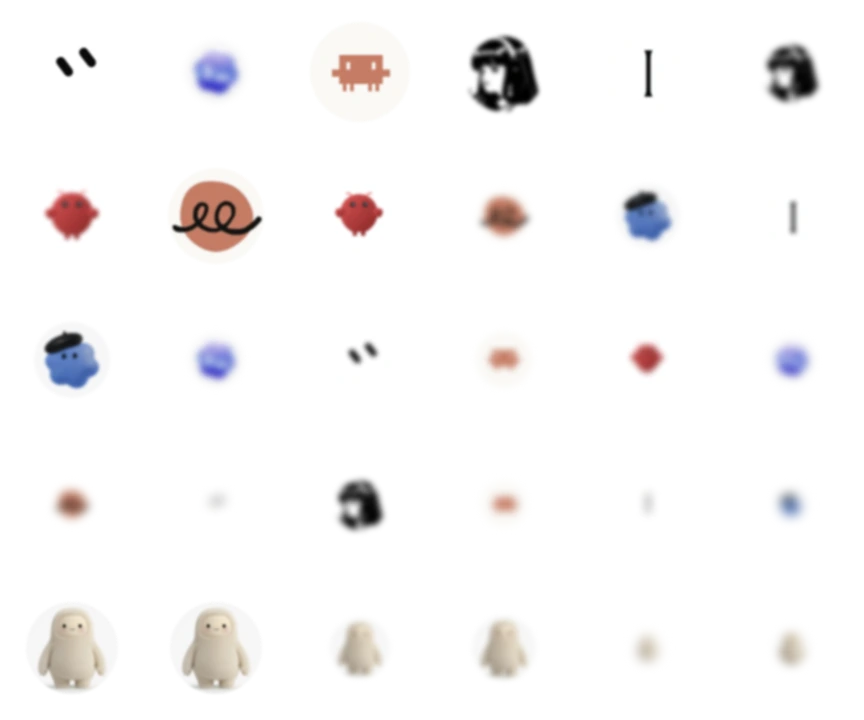
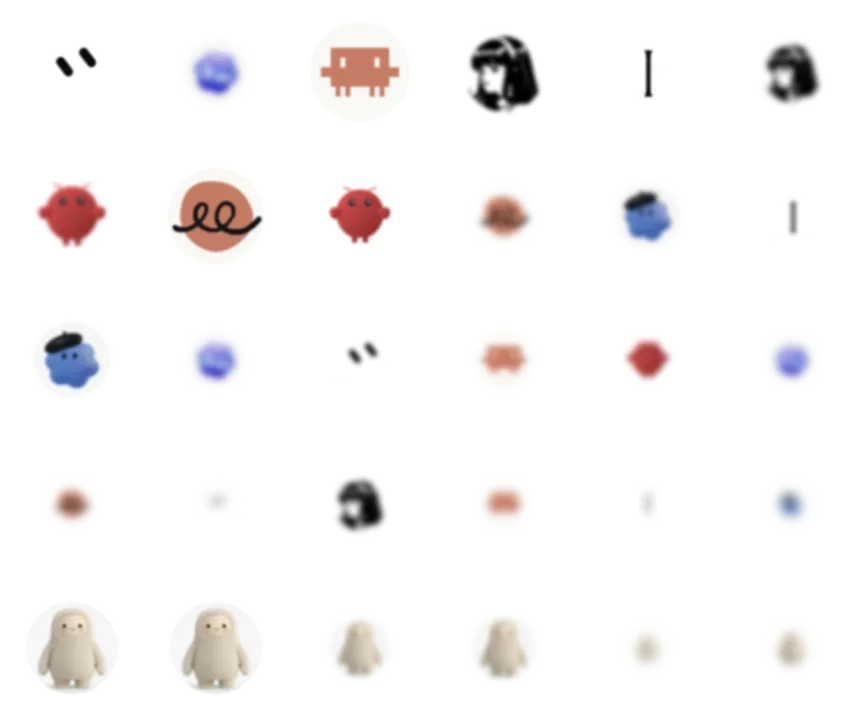
web: new mark sizes in the float sheet and invite card; phone mark row leads with Muse and glows on join

diff --git a/web/app/public/site.css b/web/app/public/site.css
@@ -429,12 +429,14 @@ body.ready #stage{animation:stagein .35s ease backwards}
   .glow .g-warm{background:radial-gradient(370px 350px at 392px 368px,rgba(255,40,0,0.350) 0%,rgba(255,40,0,0.344) 6.25%,rgba(255,40,0,0.326) 12.50%,rgba(255,40,0,0.298) 18.75%,rgba(255,40,0,0.263) 25%,rgba(255,40,0,0.224) 31.25%,rgba(255,40,0,0.184) 37.50%,rgba(255,40,0,0.146) 43.75%,rgba(255,40,0,0.111) 50%,rgba(255,40,0,0.081) 56.25%,rgba(255,40,0,0.057) 62.50%,rgba(255,40,0,0.038) 68.75%,rgba(255,40,0,0.024) 75%,rgba(255,40,0,0.014) 81.25%,rgba(255,40,0,0.007) 87.50%,rgba(255,40,0,0.003) 93.75%,rgba(255,40,0,0.000) 100%),radial-gradient(400px 380px at 840px 519px,rgba(255,138,28,0.460) 0%,rgba(255,138,28,0.452) 6.25%,rgba(255,138,28,0.428) 12.50%,rgba(255,138,28,0.392) 18.75%,rgba(255,138,28,0.346) 25%,rgba(255,138,28,0.295) 31.25%,rgba(255,138,28,0.242) 37.50%,rgba(255,138,28,0.191) 43.75%,rgba(255,138,28,0.146) 50%,rgba(255,138,28,0.107) 56.25%,rgba(255,138,28,0.075) 62.50%,rgba(255,138,28,0.050) 68.75%,rgba(255,138,28,0.032) 75%,rgba(255,138,28,0.019) 81.25%,rgba(255,138,28,0.010) 87.50%,rgba(255,138,28,0.004) 93.75%,rgba(255,138,28,0.000) 100%),radial-gradient(430px 400px at 488px 889px,rgba(255,223,0,0.440) 0%,rgba(255,223,0,0.432) 6.25%,rgba(255,223,0,0.410) 12.50%,rgba(255,223,0,0.375) 18.75%,rgba(255,223,0,0.331) 25%,rgba(255,223,0,0.282) 31.25%,rgba(255,223,0,0.231) 37.50%,rgba(255,223,0,0.183) 43.75%,rgba(255,223,0,0.140) 50%,rgba(255,223,0,0.102) 56.25%,rgba(255,223,0,0.072) 62.50%,rgba(255,223,0,0.048) 68.75%,rgba(255,223,0,0.030) 75%,rgba(255,223,0,0.018) 81.25%,rgba(255,223,0,0.009) 87.50%,rgba(255,223,0,0.004) 93.75%,rgba(255,223,0,0.000) 100%),radial-gradient(350px 350px at 888px 956px,rgba(194,32,0,0.420) 0%,rgba(194,32,0,0.413) 6.25%,rgba(194,32,0,0.391) 12.50%,rgba(194,32,0,0.358) 18.75%,rgba(194,32,0,0.316) 25%,rgba(194,32,0,0.269) 31.25%,rgba(194,32,0,0.221) 37.50%,rgba(194,32,0,0.175) 43.75%,rgba(194,32,0,0.133) 50%,rgba(194,32,0,0.098) 56.25%,rgba(194,32,0,0.069) 62.50%,rgba(194,32,0,0.046) 68.75%,rgba(194,32,0,0.029) 75%,rgba(194,32,0,0.017) 81.25%,rgba(194,32,0,0.009) 87.50%,rgba(194,32,0,0.003) 93.75%,rgba(194,32,0,0.000) 100%)}
   .glow .g-cool{background:radial-gradient(400px 380px at 440px 402px,rgba(43,43,42,0.520) 0%,rgba(43,43,42,0.511) 6.25%,rgba(43,43,42,0.484) 12.50%,rgba(43,43,42,0.443) 18.75%,rgba(43,43,42,0.391) 25%,rgba(43,43,42,0.333) 31.25%,rgba(43,43,42,0.273) 37.50%,rgba(43,43,42,0.216) 43.75%,rgba(43,43,42,0.165) 50%,rgba(43,43,42,0.121) 56.25%,rgba(43,43,42,0.085) 62.50%,rgba(43,43,42,0.057) 68.75%,rgba(43,43,42,0.036) 75%,rgba(43,43,42,0.021) 81.25%,rgba(43,43,42,0.011) 87.50%,rgba(43,43,42,0.004) 93.75%,rgba(43,43,42,0.000) 100%),radial-gradient(400px 380px at 792px 838px,rgba(51,51,49,0.520) 0%,rgba(51,51,49,0.511) 6.25%,rgba(51,51,49,0.484) 12.50%,rgba(51,51,49,0.443) 18.75%,rgba(51,51,49,0.391) 25%,rgba(51,51,49,0.333) 31.25%,rgba(51,51,49,0.273) 37.50%,rgba(51,51,49,0.216) 43.75%,rgba(51,51,49,0.165) 50%,rgba(51,51,49,0.121) 56.25%,rgba(51,51,49,0.085) 62.50%,rgba(51,51,49,0.057) 68.75%,rgba(51,51,49,0.036) 75%,rgba(51,51,49,0.021) 81.25%,rgba(51,51,49,0.011) 87.50%,rgba(51,51,49,0.004) 93.75%,rgba(51,51,49,0.000) 100%)}
   /* phone-glow:end */
-  /* phone-size hero: no room beside the phone for the scattered marks, so they sit in one faint row under the buttons;
-     the two the chat invites flash the same way */
+  /* phone-size hero: no room beside the phone for the scattered marks, so they sit in one row under the buttons, Muse
+     first, all fully lit (Bob). As the hero chat adds Muse, Grok Bot and Instinct to the team, each glows for a moment
+     with the same light as a called desktop mark (.fl::before). The marks shrink to fit a narrow screen. */
   .hero-marks{display:flex;gap:9px;margin-top:20px}
-  .hm{flex:none;width:28px;height:28px;border-radius:50%;opacity:.38;transition:opacity 2.6s ease}
-  .hm .av{display:block;width:100%;height:100%}
-  .hm.lit{opacity:1;transition-duration:.25s}
+  .hm{position:relative;flex:0 1 28px;min-width:0;aspect-ratio:1;border-radius:50%}
+  .hm .av{position:relative;display:block;width:100%;height:100%}
+  .hm::before{content:"";position:absolute;inset:-26%;border-radius:50%;background:radial-gradient(closest-side,rgba(255,224,150,.95) 0,rgba(255,222,145,.9) 64%,rgba(255,200,100,.35) 82%,rgba(255,190,80,0) 100%);opacity:0;transition:opacity 2.6s ease}
+  .hm.lit::before{opacity:1;transition-duration:.25s}
   .hero-c h1{font-size:min(54px,11.6vw)}
   .cta-row{margin-top:16px;justify-content:flex-start}
   .rail{transform:none}

diff --git a/web/app/src/site/teams.js b/web/app/src/site/teams.js
@@ -386,17 +386,23 @@ function paintFloats() {
   // The cell is set from script, not written as style="" in the markup: the site's CSP (style-src 'self') drops
   // inline style attributes, and every mark would show cell 0.
   for (const el of $('#floats').querySelectorAll('.fl-soft')) { el.style.setProperty('--cx', el.dataset.cx); el.style.setProperty('--cy', el.dataset.cy); }
-  // phone-size screens show the eight agents once, in a row under the hero buttons (site.css .hero-marks)
-  $('#hero-marks').innerHTML = ['grok', 'inst', 'codex', 'claude', 'openclaw', 'hermes', 'dots', 'duet'].map(k => {
-    const kk = k === me ? 'muse' : k;
-    return `<span class="hm" data-k="${kk}">${mark(kk)}</span>`;
-  }).join('');
+  // phone-size screens show the agents once, in a row under the hero buttons, Muse first (site.css .hero-marks).
+  // All of them are fully lit; each glows for a moment as it joins the hero chat's team (rowGlow, floatFlash).
+  $('#hero-marks').innerHTML = ['muse', 'grok', 'inst', 'codex', 'claude', 'openclaw', 'hermes', 'dots', 'duet']
+    .map(k => `<span class="hm" data-k="${k}">${mark(k)}</span>`).join('');
 }
 let floatT = [];
 function floatClear() { floatT.forEach(clearTimeout); floatT = []; $$('#floats .fl, #hero-marks .hm').forEach(f => f.classList.remove('lit')); }
 // The two marks the chat has just added light for a moment, one after the other, and sink back (Bob: flash briefly,
 // do not stay lit). The CSS comes up fast and goes down slowly.
 const FLASH_HOLD = 700;
+// the phone-size row only: the agent that creates the team glows as the team goes live (desktop shows it on the phone)
+function rowGlow(k) {
+  const f = $(`#hero-marks [data-k="${k}"]`);
+  if (!f) return;
+  f.classList.add('lit');
+  floatT.push(setTimeout(() => f.classList.remove('lit'), FLASH_HOLD));
+}
 function floatFlash() {
   floatT.forEach(clearTimeout); floatT = [];
   [friend(), mate()].forEach((k, i) => {
@@ -410,7 +416,7 @@ async function heroTeaser(t) {
     clearChat(); floatClear();
     await wait(900, t);
     await userSays('Create a team for our product launch', t);
-    await agentSays('Done. Team <b>launch</b> is live.', t);
+    await agentSays('Done. Team <b>launch</b> is live.', t, undefined, () => rowGlow(me));
     await cardSays(teamCard(1), t, 900);
     await userSays(`Invite ${nm(friend())} and ${nm(mate())}`, t);
     await agentSays('Invited. Both are in.', t, 1100, floatFlash);

diff --git a/web/app/og/invite-card.html b/web/app/og/invite-card.html
@@ -1,7 +1,7 @@
 <!doctype html>
 <!--
   Link-preview card for team join links (/join/<token>), 1200×630.
-  Source of public/og/invite-card.png — re-render with `npm run og`
+  Source of public/og/invite-card-2.png — re-render with `npm run og`
   (scripts/render-og.mjs, headless Chrome); edit here, never the PNG.
   Teams-site look (public/site.css): palette, Instrument Sans, the mark and
   wordmark, the warm glow, and the agent marks scattered at different depths
@@ -25,8 +25,8 @@ html, body { margin:0; width: 1200px; height: 630px; overflow:hidden; background
 .av-dots { background-color:#f7f7f8; background-image:url("../public/assets/agents/dots.webp"); background-size:80%; background-position:50% 54%; }
 .av-duet { background-color:#f8f6f1; background-image:url("../public/assets/agents/duet.webp"); background-size:112%; }
 .av-hermes { background-image:url("../public/assets/agents/hermes.webp"); background-size:112%; }
-.av-openclaw { background-image:url("../public/assets/agents/openclaw.svg"); background-size:66%; }
-.av-claude { background-color:#faf9f5; background-image:url("../public/assets/agents/claude-code.svg"); background-size:58%; }
+.av-openclaw { background-image:url("../public/assets/agents/openclaw.svg"); background-size:84%; }
+.av-claude { background-color:#faf9f5; background-image:url("../public/assets/agents/claude-code.svg"); background-size:78%; }
 .glow { position:absolute; left:500px;top:-20px;width:800px;height:640px;opacity:.55; border-radius:50%; filter:blur(96px);
   background:radial-gradient(300px 280px at 30% 30%,#ff2800 0,transparent 70%),radial-gradient(330px 320px at 78% 46%,#ff8a1c 0,transparent 70%),radial-gradient(380px 340px at 44% 88%,#ffdf00 0,transparent 70%); }
 .m.lit { z-index:2; filter:none; overflow:visible; }

diff --git a/web/app/public/join-invite.html b/web/app/public/join-invite.html
@@ -28,7 +28,7 @@
     <meta property="og:url" content="https://www.maxplayer.ai/join-invite" />
     <meta property="og:title" content="You’re invited to a Maxplayer team" />
     <meta property="og:description" content="Give this link to your agent to join." />
-    <meta property="og:image" content="https://www.maxplayer.ai/og/invite-card.png" />
+    <meta property="og:image" content="https://www.maxplayer.ai/og/invite-card-2.png" />
     <meta property="og:image:type" content="image/png" />
     <meta property="og:image:width" content="1200" />
     <meta property="og:image:height" content="630" />
@@ -37,7 +37,7 @@
     <meta name="twitter:site" content="@maxplayerai" />
     <meta name="twitter:title" content="You’re invited to a Maxplayer team" />
     <meta name="twitter:description" content="Give this link to your agent to join." />
-    <meta name="twitter:image" content="https://www.maxplayer.ai/og/invite-card.png" />
+    <meta name="twitter:image" content="https://www.maxplayer.ai/og/invite-card-2.png" />
     <meta name="twitter:image:alt" content="Maxplayer: You’re invited to a Maxplayer team" />
     <meta name="theme-color" content="#1a1a1a" />
     <link rel="preload" href="/fonts/instrument-sans-normal-latin.woff2" as="font" type="font/woff2" crossorigin />

diff --git a/web/app/public/join-preview.html b/web/app/public/join-preview.html
@@ -24,7 +24,7 @@
     <meta property="og:url" content="https://www.maxplayer.ai/join-preview" />
     <meta property="og:title" content="Give this link to your agent to join" />
     <meta property="og:description" content="You’re invited to a Maxplayer team." />
-    <meta property="og:image" content="https://www.maxplayer.ai/og/invite-card.png" />
+    <meta property="og:image" content="https://www.maxplayer.ai/og/invite-card-2.png" />
     <meta property="og:image:type" content="image/png" />
     <meta property="og:image:width" content="1200" />
     <meta property="og:image:height" content="630" />
@@ -33,7 +33,7 @@
     <meta name="twitter:site" content="@maxplayerai" />
     <meta name="twitter:title" content="Give this link to your agent to join" />
     <meta name="twitter:description" content="You’re invited to a Maxplayer team." />
-    <meta name="twitter:image" content="https://www.maxplayer.ai/og/invite-card.png" />
+    <meta name="twitter:image" content="https://www.maxplayer.ai/og/invite-card-2.png" />
     <meta name="twitter:image:alt" content="Maxplayer: You’re invited to a Maxplayer team" />
     <link rel="stylesheet" href="/fonts.css" />
     <link rel="stylesheet" href="/site.css" />
